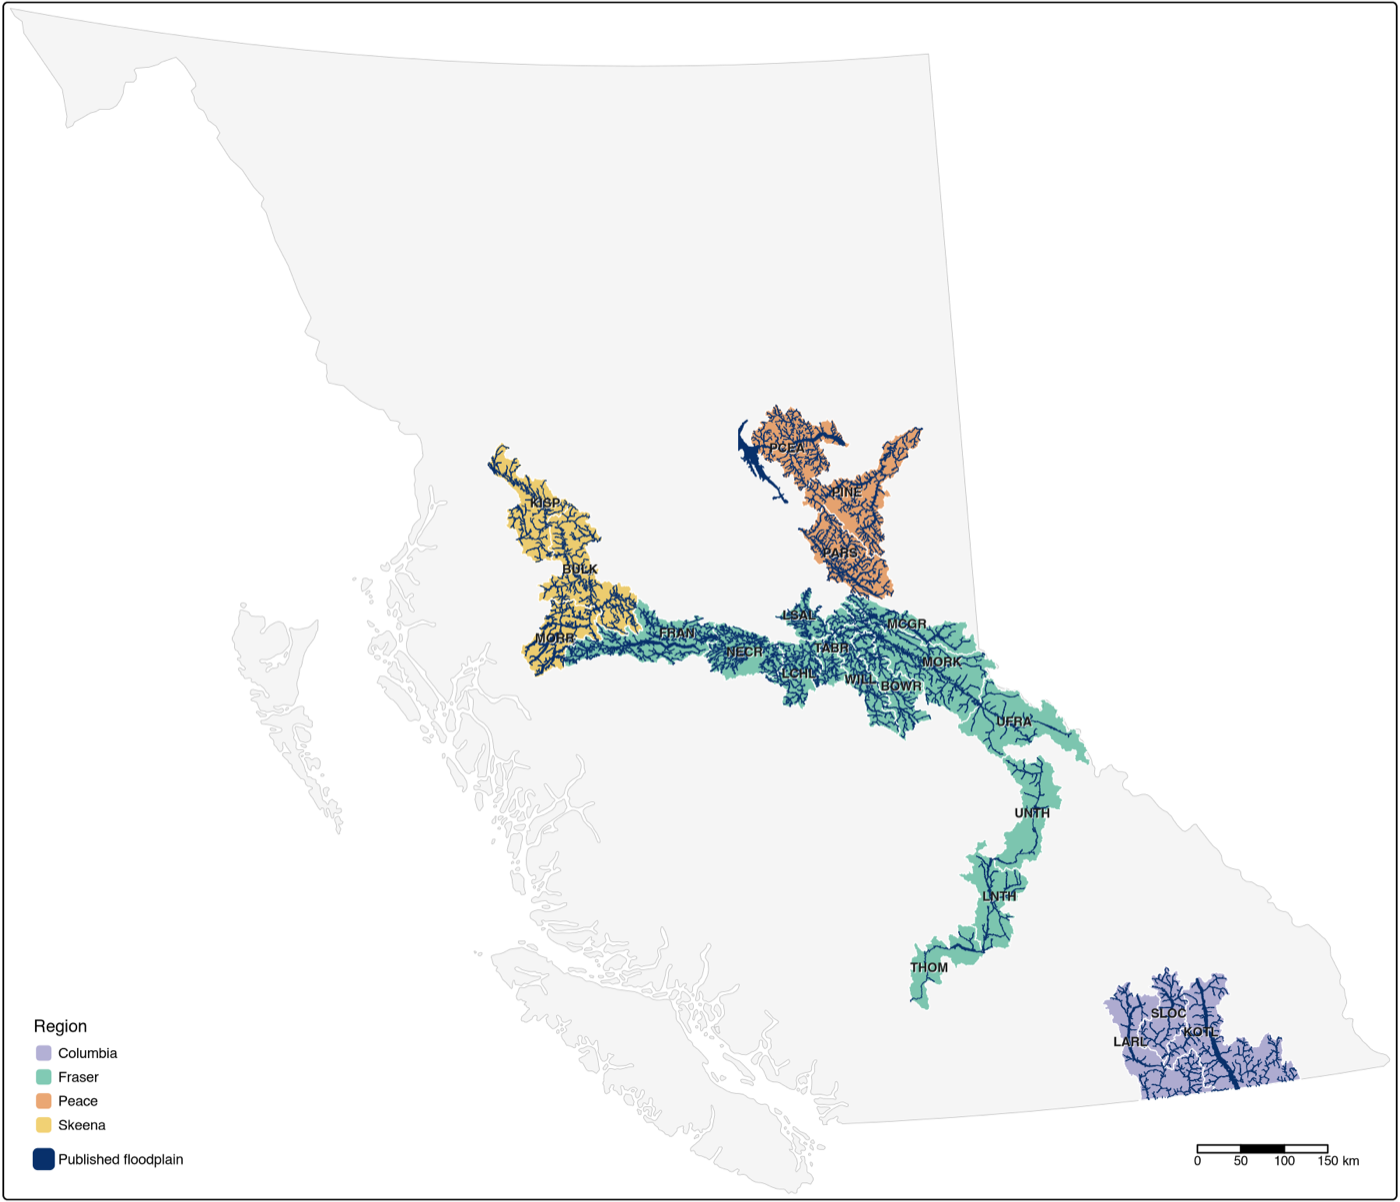
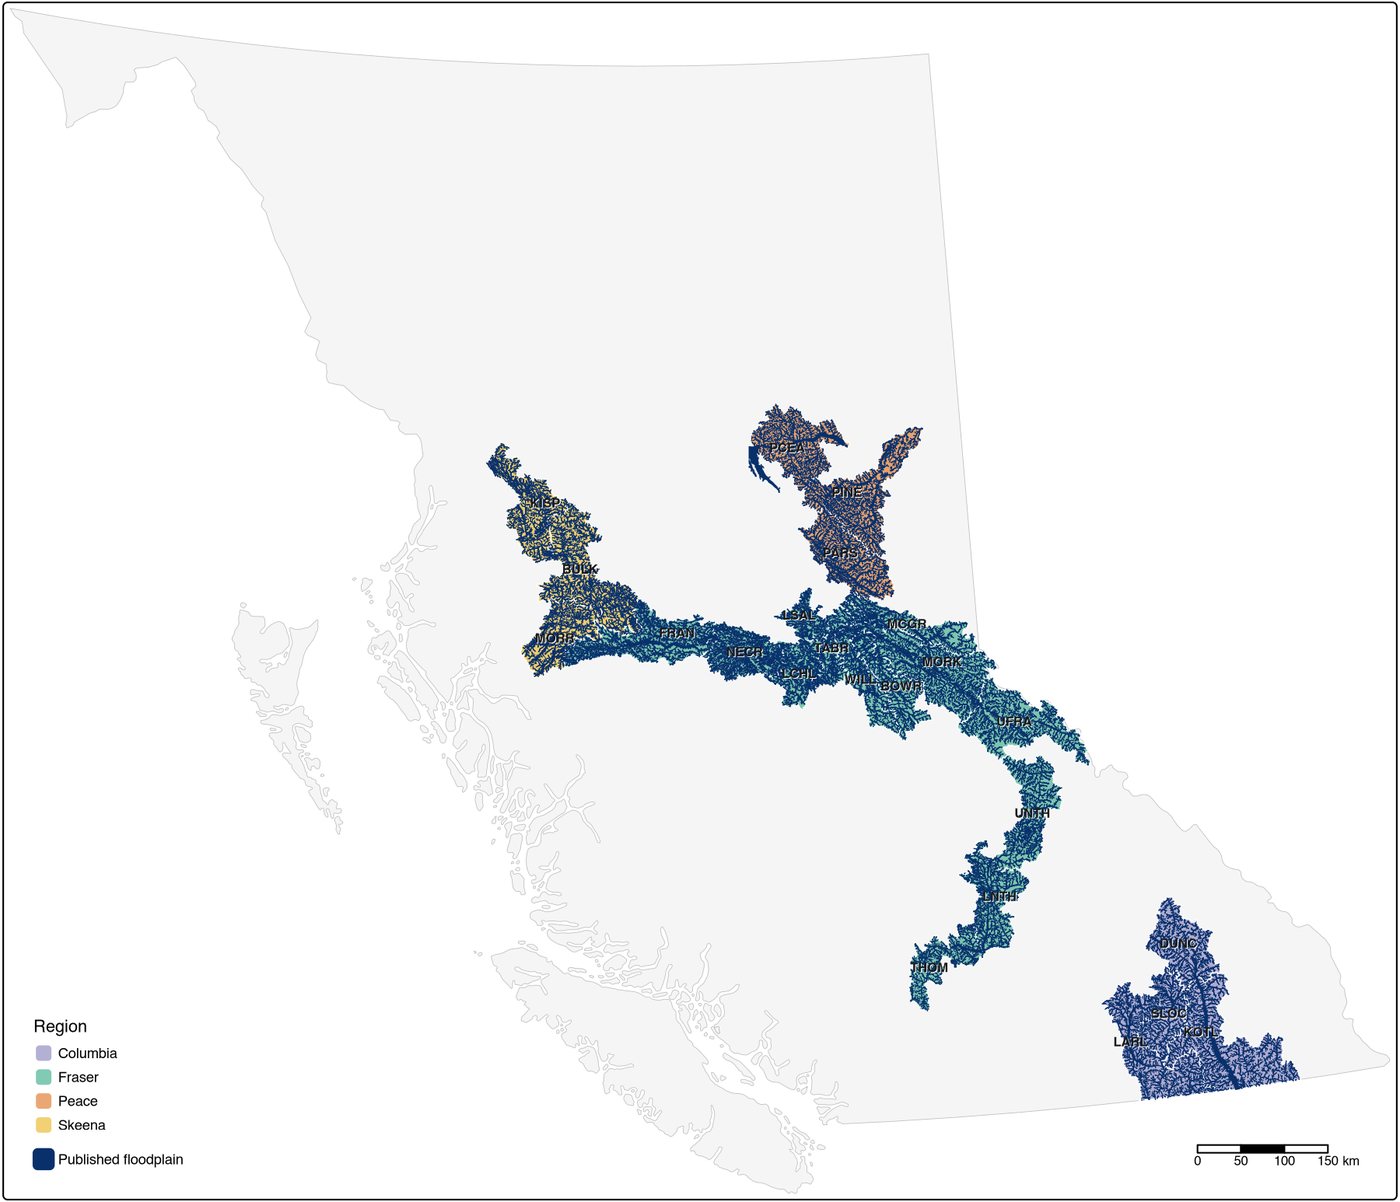
Phase 2: stale and under-qualified facts (#59)
The floodplain catalogue is v2.0.0: each group's whole stream network, no
access filter, and the coverage figure is the current upstream one. Drone
imagery says what is live (OpenDroneMap stitching, capture dates, the site
registry per item, the lidar fit with the imagery published as captured) and
credits the province's drone specialist for the Neexdzii Kwah flights; the
flight-planning sentence is gone. Lidar is "rebuilt monthly" (registration
into the served API is by hand); four of five catalogues carry CC BY 4.0;
flooded's paragraph parses and stops at "what to check before acting";
Fraser link texts match their page titles; Elk is a river, not a region.

Claude-Session: https://claude.ai/code/session_015Jk6BLCJR6akr2dUiE5A8m

Changed region(s): [[0.3686, 0.3386, 0.7986, 0.8311], [0.7679, 0.7388, 0.9214, 0.9235], [0.3379, 0.3694, 0.3686, 0.4002]]

diff --git a/layouts/index.html b/layouts/index.html
@@ -355,7 +355,7 @@
           </a>
           <div class="nge-pipeline-body">
             <h3>What do the ground and water look like now?</h3>
-            <p>Provincial lidar and our own drone imagery in open catalogues anyone can search by place, and water temperature, flow and level at hydrometric stations ready to query. We built them so this data can be found and loaded directly. They are how we understand floodplains past and present, and how the data gets into models and reports.</p>
+            <p>Provincial lidar and drone imagery from our programs in open catalogues anyone can search by place, and water temperature, flow and level at hydrometric stations ready to query. We built them so this data can be found and loaded directly. They are how we understand floodplains past and present, and how the data gets into models and reports.</p>
             <div class="nge-pipeline-tools"><a href="https://www.newgraphenvironment.com/stac_elevation_bc/" target="_blank">stac_elevation_bc</a><a href="https://www.newgraphenvironment.com/stac_uav_bc/" target="_blank">stac_uav_bc</a><a href="https://www.newgraphenvironment.com/stac_pointcloud_bc/" target="_blank">stac_pointcloud_bc</a><a href="https://www.newgraphenvironment.com/water-temp-bc/" target="_blank">water-temp-bc</a></div>
           </div>
         </div>
@@ -385,7 +385,7 @@
       <div class="nge-evidence-cards nge-reveal">
         <a href="/project/watershed_restoration_fish_passage/" class="nge-evidence-card">
           <h3>Watershed Restoration &amp; Conservation</h3>
-          <p>Aquatic restoration planning, delivery and monitoring across British Columbia — from the Neexdzii Kwah watershed restoration framework to fish passage assessment across Skeena, Peace, Fraser, and Elk River regions.</p>
+          <p>Aquatic restoration planning, delivery and monitoring across British Columbia — from the Neexdzii Kwah watershed restoration framework to fish passage assessment across the Skeena, Peace and Fraser regions and the Elk River.</p>
           <span class="nge-card-arrow">Explore →</span>
         </a>
         <a href="/project/aquatic_monitoring_assessment/" class="nge-evidence-card">

diff --git a/content/project/open_source_software/index.md b/content/project/open_source_software/index.md
@@ -71,7 +71,7 @@ The floodplain is where a river stores water, builds side channels and grows the
 
 ### flooded — where the floodplain is
 
-Our floodplain mapping tool, flooded, maps the floodplain from elevation data and the stream network, from a narrow version to a wide one. Run on coarse elevation data and again on lidar, the floodplain the coarse result maps but lidar excludes points to the roads, rail grades, dykes and fill that may cut a river off from its floodplain. That shows **where to look, and where to act**: fill removal, dyke breaches, crossing installations.
+Our floodplain mapping tool, flooded, maps the floodplain from elevation data and the stream network, in scenarios from narrow to wide. We run it twice, on coarse elevation data and on lidar. The ground the coarse run maps as floodplain and the lidar run leaves out points to the roads, rail grades, dykes and fill that may cut a river off from its floodplain. That shows **where to look, and what to check before acting**: fill, dykes, crossings.
 
 - [Documentation](https://www.newgraphenvironment.com/flooded/) | [Source](https://github.com/NewGraphEnvironment/flooded)
 
@@ -97,7 +97,7 @@ Our land-cover change tool, drift, measures how the land inside a floodplain cha
 
 ### Floodplain change catalogue
 
-Brings link, flooded and drift together for whole watershed groups: the floodplain along fish-accessible streams, tree loss and gain inside it from 2017 to 2023, and how much of that loss coincides with fire or harvest. It loads straight into QGIS, R or Python, and the code that builds it is open.
+Brings link, flooded and drift together for whole watershed groups: the floodplain of each group's whole stream network, tree loss and gain inside it from 2017 to 2023, and how much of that loss coincides with fire or harvest. It loads straight into QGIS, R or Python, and the code that builds it is open.
 
 **A screening tool for finding where to look.** It has not been field-validated, and watershed groups can't be compared with each other.
 
@@ -143,13 +143,13 @@ Our climate analysis tool, cd, measures how far a watershed's climate has moved 
 
 ## What do the ground and water look like now?
 
-Understanding a floodplain means seeing it as it is now and as it was. We built open catalogues of provincial lidar and our own drone imagery, and an open archive of hydrometric station data, so this data can be found and loaded directly. They take down the barriers to sharing it: anyone can find imagery and elevation data by place, by script or by hand in QGIS, query the station records by script, and pull either into a model, a report or a map. Partners and practitioners can see for themselves what is happening on their rivers.
+Understanding a floodplain means seeing it as it is now and as it was. We built open catalogues of provincial lidar and the drone imagery from our programs, and an open archive of hydrometric station data, so this data can be found and loaded directly. They take down the barriers to sharing it: anyone can find imagery and elevation data by place, by script or by hand in QGIS, query the station records by script, and pull either into a model, a report or a map. Partners and practitioners can see for themselves what is happening on their rivers.
 
 <img src="/img/hex/stac_elevation_bc.png" alt="stac_elevation_bc" style="float: right; width: 100px; margin: 0 0 1rem 1.5rem;">
 
 ### BC lidar, ready to query
 
-LidarBC elevation tiles across the province, searchable by place and date: bare earth and, where published, surface models, updated monthly, with an index of the raw point clouds. Bare earth shows side channels, old channels and the fill built across a river's path. The point clouds give the height of the streamside forest, and where it has been cleared.
+LidarBC elevation tiles across the province, searchable by place and date: bare earth and, where published, surface models, rebuilt monthly, with an index of the raw point clouds. Bare earth shows side channels, old channels and the fill built across a river's path. The point clouds give the height of the streamside forest, and where it has been cleared.
 
 - [Elevation catalogue](https://www.newgraphenvironment.com/stac_elevation_bc/) | [Point cloud catalogue](https://www.newgraphenvironment.com/stac_pointcloud_bc/)
 
@@ -163,7 +163,7 @@ LidarBC elevation tiles across the province, searchable by place and date: bare 
 
 ### Drone imagery
 
-Our drone flights, catalogued by watershed and year: orthomosaics plus surface and terrain models. Flights can be planned from the floodplain maps, and the imagery comes back into the catalogue for site baselines and before-and-after monitoring of restoration works.
+Drone imagery from our programs, catalogued by region, watershed and year, each flight with the date it was flown. The photographs are stitched into orthomosaics and surface and terrain models with OpenDroneMap, and each item records the stream, the watershed group and the crossing it covers, with a label that tells repeat flights of one site apart. Where provincial lidar covers a flight, the item also records how far the drone's GPS placed it from the lidar ground and the correction that brings it onto the lidar; the imagery itself is published as captured. It can be found by place and date from R or QGIS, or opened in the viewer. Imagery flown before works are built is the baseline later flights are compared against. Flights are by our team and, in the Neexdzii Kwah, with the Ministry of Water, Land and Resource Stewardship's provincial drone specialist.
 
 - [Catalogue](https://www.newgraphenvironment.com/stac_uav_bc/) | [Viewer](https://viewer.a11s.one) | [Source](https://github.com/NewGraphEnvironment/stac_uav_bc)
 
@@ -189,7 +189,7 @@ This data feeds our collaborative science with [Poisson Consulting](https://www.
 
 ### Open catalogues, and the recipe for building them
 
-Each catalogue is two things: the catalogue itself, and the public code that builds it, a worked example others can follow to build their own. We don't need to be the only source of any of it. Ours are served at [images.a11s.one](https://images.a11s.one) and can be searched from R, Python or QGIS 3.42+ through the open STAC standard.
+Each catalogue is two things: the catalogue itself, and the public code that builds it, a worked example others can follow to build their own. We don't need to be the only source of any of it. Ours are served from our catalogue server, [images.a11s.one](https://images.a11s.one), and can be searched from R, Python or QGIS 3.42+ through the open STAC standard. Four of the five carry a CC BY 4.0 licence.
 
 Our catalogue loader, stacs, puts catalogues into that search service and checks that every record arrived intact.
 
@@ -197,11 +197,11 @@ Our catalogue loader, stacs, puts catalogues into that search service and checks
 
 | Catalogue | What it catalogues |
 |-----------|---------------|
-| [**stac_elevation_bc**](https://github.com/NewGraphEnvironment/stac_elevation_bc) | LiDAR elevation models, bare earth and, where published, surface; province-wide, updated monthly |
+| [**stac_elevation_bc**](https://github.com/NewGraphEnvironment/stac_elevation_bc) | LiDAR elevation models, bare earth and, where published, surface; province-wide, rebuilt monthly |
 | [**stac_pointcloud_bc**](https://github.com/NewGraphEnvironment/stac_pointcloud_bc) | LidarBC point cloud files (an index, not a copy); province-wide |
 | [**stac_floodplains_bc**](https://github.com/NewGraphEnvironment/stac_floodplains_bc) | Floodplains and land-cover change, 2017–2023; by watershed group |
 | [**stac_airphoto_bc**](https://github.com/NewGraphEnvironment/stac_airphoto_bc) | Historic aerial photograph thumbnails (1967–2019), georeferenced; selected watersheds |
-| [**stac_uav_bc**](https://github.com/NewGraphEnvironment/stac_uav_bc) | Our drone imagery; by region, watershed group and year |
+| [**stac_uav_bc**](https://github.com/NewGraphEnvironment/stac_uav_bc) | Drone imagery from our programs; by region, watershed group and year |
 
 <br>
 

diff --git a/planning/active/task_plan.md b/planning/active/task_plan.md
@@ -33,15 +33,15 @@ The branch fast-forwards PR #60's commit (`stac_dem_bc` → `stac_elevation_bc`)
 - [x] Build to a temp dir; confirm `/about/`, `/form/`, `/tags/`, `/categories/`, `/series/` absent from the build and `sitemap.xml`; `<title>`, `og:title`, `og:description`, `og:image`, `twitter:*` correct on `/`, `/project/`, `/contact/`; commit
 
 ### Phase 2: Stale and under-qualified facts
-- [ ] `content/project/open_source_software/index.md:100`: floodplain catalogue sentence → whole stream network, no access filter; re-copy stac_floodplains_bc `fig/coverage.png` at `main` → `floodplains_coverage.png` (1400 px)
-- [ ] `:166` Drone imagery rewrite (D3): "Drone imagery from our programs"; drop the flight-planning sentence; add OpenDroneMap stitching, date flown, per-item site registry (stream, watershed group, crossing covered, repeat flights distinguished), the lidar fit stated as a present-tense fact with "the imagery is published as captured", findable by place and date from R, QGIS or the viewer, baseline before works compared against later flights; one credit sentence: flights by our team and, in the Neexdzii Kwah, with the Ministry of Water, Land and Resource Stewardship's provincial drone program
-- [ ] `:204` table row → "Drone imagery from our programs; by region, watershed group and year"; `layouts/index.html:358` "our own drone imagery" → "drone imagery from our programs"
-- [ ] `:146`, `:190`, `:203`: airphoto catalogue — the row states the licence the live collection carries until stac_airphoto_bc#50 lands, and "open" is scoped to the four CC-BY-4.0 catalogues
-- [ ] `:152`, `:200`: "updated monthly" → "rebuilt monthly"
-- [ ] `:74` flooded: second sentence rewritten (copy review wording); "where to look, and what to check before acting: fill, dykes, crossings"
-- [ ] `content/project/watershed_restoration_fish_passage/index.md:80-81`: Fraser link texts → "Restoring Fish Passage in the Fraser Region 2025" / "… 2023"
-- [ ] `layouts/index.html:388`: "across the Skeena, Peace and Fraser regions and the Elk River"
-- [ ] Build; commit
+- [x] `content/project/open_source_software/index.md:100`: floodplain catalogue sentence → whole stream network, no access filter; re-copy stac_floodplains_bc `fig/coverage.png` at `main` → `floodplains_coverage.png` (1400 px)
+- [x] `:166` Drone imagery rewrite (D3): "Drone imagery from our programs"; drop the flight-planning sentence; add OpenDroneMap stitching, date flown, per-item site registry (stream, watershed group, crossing covered, repeat flights distinguished), the lidar fit stated as a present-tense fact with "the imagery is published as captured", findable by place and date from R, QGIS or the viewer, baseline before works compared against later flights; one credit sentence: flights by our team and, in the Neexdzii Kwah, with the Ministry of Water, Land and Resource Stewardship's provincial drone program
+- [x] `:204` table row → "Drone imagery from our programs; by region, watershed group and year"; `layouts/index.html:358` "our own drone imagery" → "drone imagery from our programs"
+- [x] `:146`, `:190`, `:203`: airphoto catalogue — the row states the licence the live collection carries until stac_airphoto_bc#50 lands, and "open" is scoped to the four CC-BY-4.0 catalogues
+- [x] `:152`, `:200`: "updated monthly" → "rebuilt monthly"
+- [x] `:74` flooded: second sentence rewritten (copy review wording); "where to look, and what to check before acting: fill, dykes, crossings"
+- [x] `content/project/watershed_restoration_fish_passage/index.md:80-81`: Fraser link texts → "Restoring Fish Passage in the Fraser Region 2025" / "… 2023"
+- [x] `layouts/index.html:388`: "across the Skeena, Peace and Fraser regions and the Elk River"
+- [x] Build; commit
 
 ### Phase 3: Copy and credibility
 - [ ] Who We Are (`layouts/index.html:302`, D2: unnamed): keep the identity sentence; move the service list from `:315` into Who We Are as two sentences ("We work alongside stewardship organizations, First Nations and agencies across BC. The work is stream network modelling, floodplain analysis, land cover change detection, nutrient loading, aquatic health monitoring, field programs and interactive online reporting, connected so that provincial data, analysis, field collection and reporting are one workflow."); Our Approach keeps `:313`, `:314`, `:316`
@@ -55,7 +55,7 @@ The branch fast-forwards PR #60's commit (`stac_dem_bc` → `stac_elevation_bc`)
 - [ ] One spelling per document (D4): `aquatic_monitoring_assessment/index.md:38,40` prose → "Neexdzii Kwah" and "Wet'suwet'en Treaty Office Society"; the restoration tile already has both; report link texts keep each report's own title
 - [ ] `open_source_software/index.md:3` title → "Open Source Software"
 - [ ] Duplicates: cut the last sentence of `layouts/index.html:327`; rewrite the `open_source_software/index.md:10` opener so it does not repeat the landing page
-- [ ] `open_source_software/index.md:192`: "served from our catalogue server, images.a11s.one"
+- [x] `open_source_software/index.md:192`: "served from our catalogue server, images.a11s.one" (landed with Phase 2)
 - [ ] `aquatic_monitoring_assessment/index.md:3` excerpt: "reservoirs, regulated rivers and impacted streams"
 - [ ] Contact `content/form/contact.md:4` (D5): second sentence → "The methods and analytical tools we develop together become publicly available to the broader community." (drops "data"; no governance claim added)
 - [ ] Blog nav `config.toml:113` → the final URL `https://www.newgraphenvironment.com/new_graphiti/`; label stays "Blog"

diff --git a/planning/active/progress.md b/planning/active/progress.md
@@ -9,4 +9,5 @@
 - Created branch `59-site-review-oct-2026-fact-check-copy-and` off main (eeb4eb2), fast-forwarded PR #60's rename commit (a4776a2) so Phase 2 does not conflict with it
 - Scaffolded PWF baseline from issue #59 with approved phases
 - Phase 1 landed: theme residue and metadata (about/ and form/ no longer build, taxonomy pages off, share card, meta/footer/single/heading overrides, utterances and KaTeX off)
-- Next: Phase 2
+- Phase 2 landed: floodplain catalogue sentence and coverage figure at v2.0.0 (upstream 9dceb49), drone imagery rewritten for what is live with the WLRS credit, lidar fit stated as a fact, "rebuilt monthly", flooded paragraph, CC BY 4.0 count, Fraser link texts, Elk River card
+- Next: Phase 3

diff --git a/content/project/watershed_restoration_fish_passage/index.md b/content/project/watershed_restoration_fish_passage/index.md
@@ -77,8 +77,8 @@ Multi-year fish passage assessment and restoration planning across more than 20 
 
 #### Fraser Region
 
-  - [Fraser River Fish Passage Restoration Planning 2025](https://www.newgraphenvironment.com/fish_passage_fraser_2025_reporting/)
-  - [Fraser River Fish Passage Restoration Planning 2023](https://www.newgraphenvironment.com/fish_passage_fraser_2023_reporting/)
+  - [Restoring Fish Passage in the Fraser Region 2025](https://www.newgraphenvironment.com/fish_passage_fraser_2025_reporting/)
+  - [Restoring Fish Passage in the Fraser Region 2023](https://www.newgraphenvironment.com/fish_passage_fraser_2023_reporting/)
 
 <br>
 
